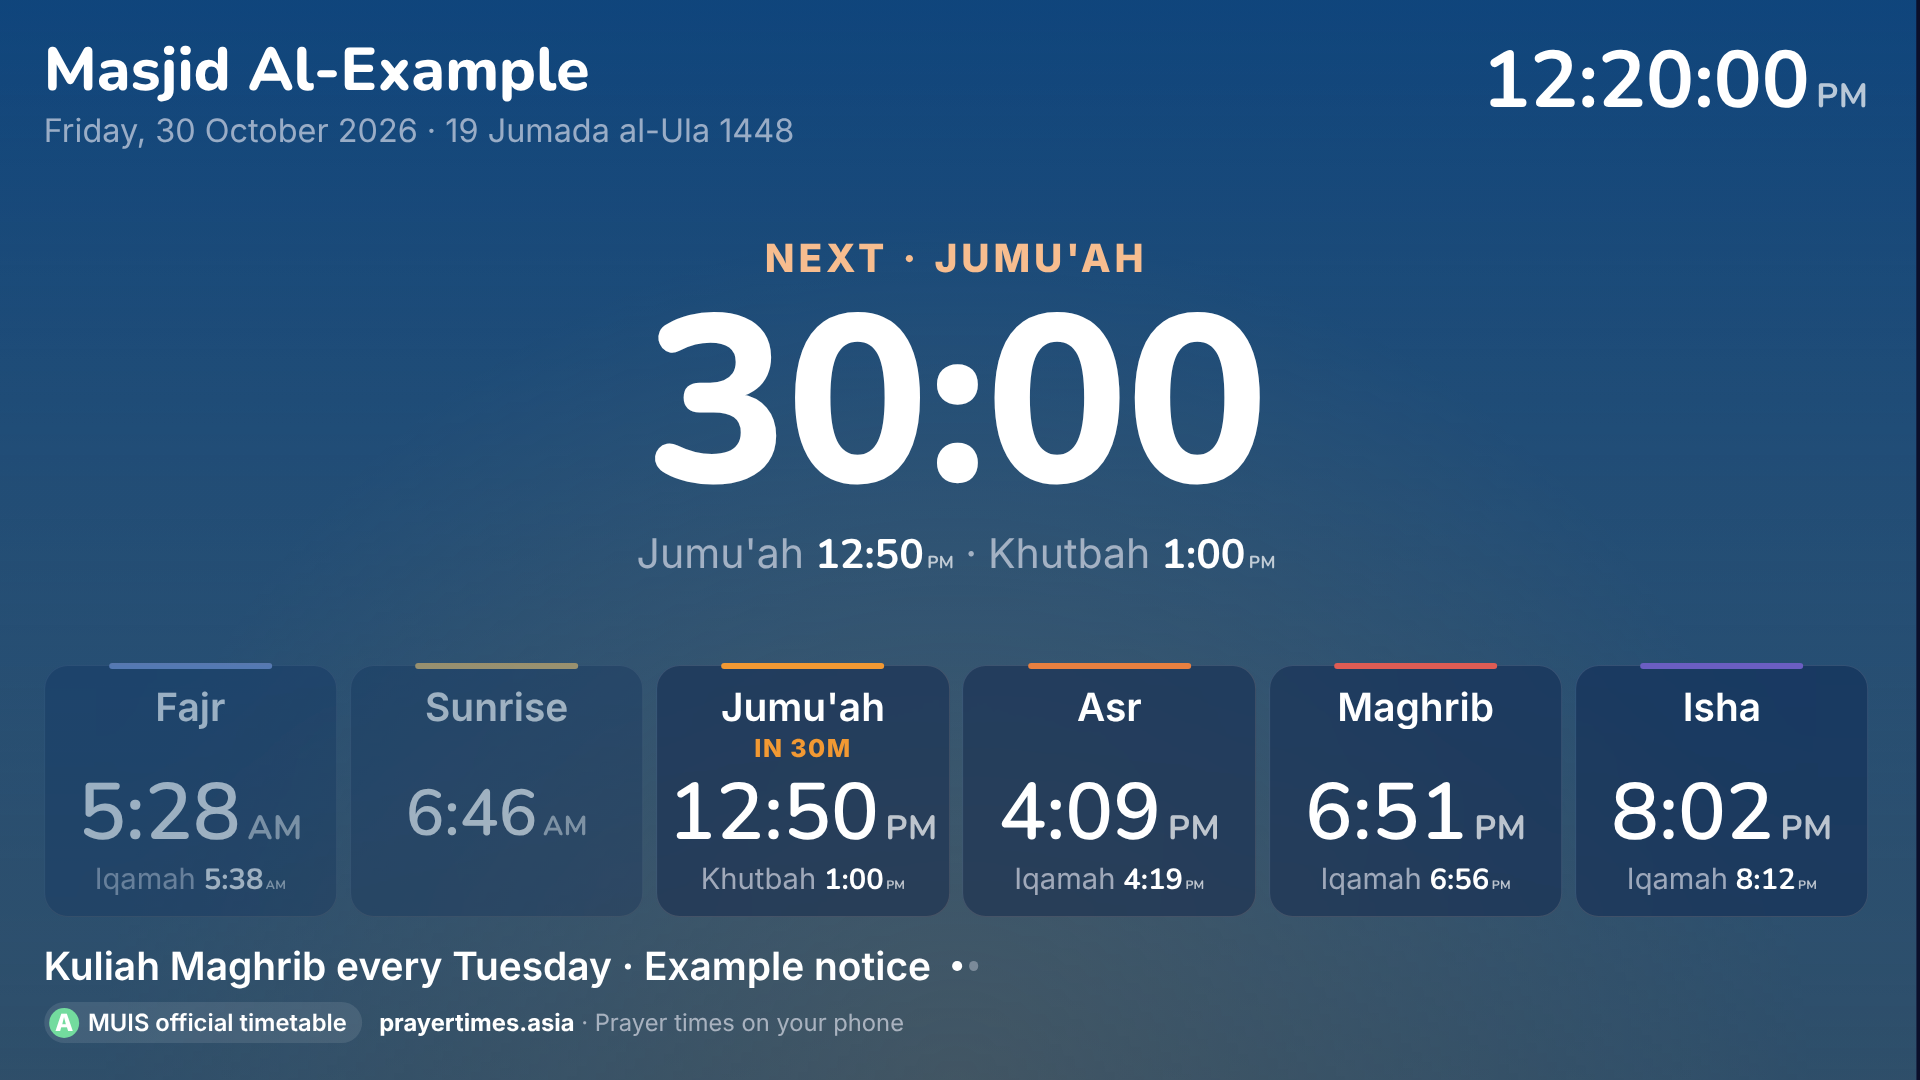
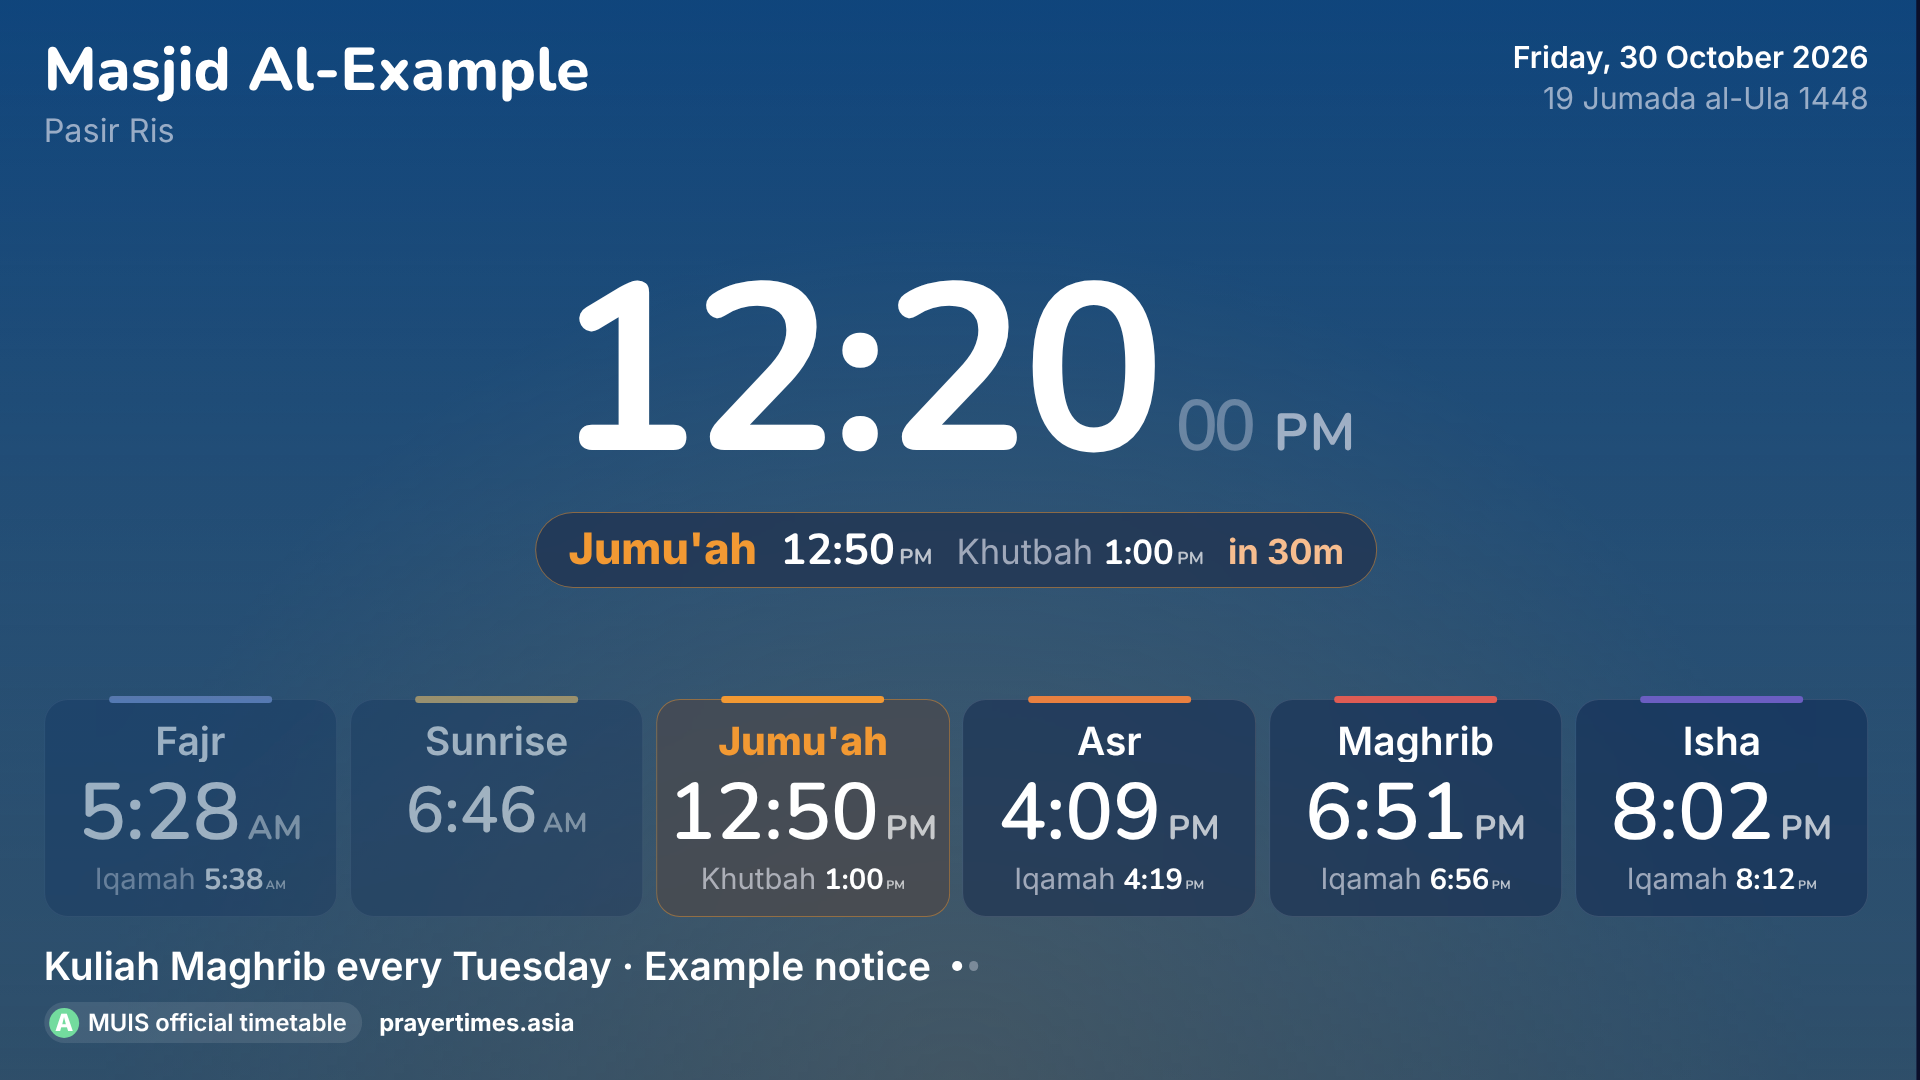
Masjid screen: one moving number, cleaner looks, readable dropdowns
Waiting: the clock is the hero (seconds small) with the next prayer, its
iqamah and "in 40m" under it, changing once a minute. After the azan the
iqamah countdown takes over and the clock drops to hh:mm. The header shows
the date instead of a second clock, the Now/in tags on the cards are gone,
and the highlighted card is the next prayer. Setup dropdowns are drawn
dark so every option is readable.

Claude-Session: https://claude.ai/code/session_01N3UT55kGUzTCzRML5iKXZQ

diff --git a/web/src/screen/Display.tsx b/web/src/screen/Display.tsx
@@ -21,14 +21,13 @@ export function Display({ config: c, now, arabicTurn = false }: { config: Screen
   const sd = phase.day
   const arabic = c.arabic && arabicTurn
   const label = (p: Prayer) => name(p, c.names, sd.friday, arabic)
-  const clock = clockParts(now, tz, c.h24, true)
   const tint = phase.kind === 'waiting' ? phase.next : phase.prayer
   const hijriStyle = c.names === 'malay' || c.names === 'indonesian' ? c.names : 'arabic'
   // The app's Living Sky: the sky outside the masjid, right now.
   const today = screenDay(now, c, rowFor)!
   const isToday = sd === today || sd.day.day === today.day.day
-  const next = phase.kind === 'waiting' ? phase.next : null
-  const current = phase.kind === 'waiting' ? phase.current : phase.prayer
+  // One prayer is highlighted: the one people are waiting for (or the one being called now).
+  const focus: Prayer = phase.kind === 'waiting' ? phase.next : phase.prayer
 
   return (
     <div class={`scr scr-${phase.kind} scr-look-${c.look}`} style={{ '--tint': `var(--t-${tint})` }}>
@@ -37,12 +36,12 @@ export function Display({ config: c, now, arabicTurn = false }: { config: Screen
       <header class="scr-head">
         <div class="scr-title">
           <h1>{c.name || c.place.name}</h1>
-          <p>{gregorianDate(now, tz, c.lang)} · {formatHijri(now, tz, hijriStyle, c.hijriAdj)}</p>
+          {c.name && <p>{c.place.name}</p>}
         </div>
-        <div class="scr-clock">{clock.time}{clock.suffix && <small>{clock.suffix}</small>}</div>
+        <p class="scr-date">{gregorianDate(now, tz, c.lang)}<br />{formatHijri(now, tz, hijriStyle, c.hijriAdj)}</p>
       </header>
 
-      {c.look === 'dial' && <Dial sd={sd} now={now} config={c} label={label} current={current} upcoming={next} isToday={isToday} />}
+      {c.look === 'dial' && <Dial sd={sd} now={now} config={c} label={label} focus={focus} isToday={isToday} />}
 
       <Hero phase={phase} now={now} config={c} label={label} />
 
@@ -58,16 +57,14 @@ export function Display({ config: c, now, arabicTurn = false }: { config: Screen
           </li>
         )}
         {PRAYERS.map((p) => {
-          const on = phase.kind === 'waiting' ? phase.current === p : phase.prayer === p
+          const on = p === focus
           const iq = p === 'sunrise' ? undefined : sd.iqamah[p]
           const sub = p === 'maghrib' && sd.ramadan ? w.iftar : null
           const passed = isToday && !on && sd.day.times[p] <= now
-          const tag = on ? w.nowTag : p === next && phase.kind === 'waiting' ? w.inTag(shortLeft(phase.at - now)) : null
           return (
             <li key={p} class={`scr-cell p-${p}${on ? ' on' : ''}${passed ? ' passed' : ''}${p === 'sunrise' ? ' scr-syuruk' : ''}`} style={{ '--tint': `var(--t-${p})` }}>
               <i class="scr-bar" />
               <span class="scr-name">{label(p)}{sub && <em> · {sub}</em>}</span>
-              <span class="scr-tag">{tag ?? '\u00a0'}</span>
               <Time ms={sd.day.times[p]} tz={tz} h24={c.h24} />
               <span class="scr-iq">{iq != null ? <>{p === 'dhuhr' && sd.friday && c.jumuah ? w.khutbah : w.iqamah} <Time ms={iq} tz={tz} h24={c.h24} small /></> : ' '}</span>
             </li>
@@ -79,7 +76,7 @@ export function Display({ config: c, now, arabicTurn = false }: { config: Screen
         <Notice notices={c.notices} now={now} />
         <p class="scr-brand">
           <span class="scr-pill"><b class={`scr-grade g-${sd.day.grade}`}>{sd.day.grade}</b>{sd.source}</span>
-          <span><b>prayertimes.asia</b> · {w.getApp}</span>
+          <span><b>prayertimes.asia</b></span>
         </p>
       </footer>
 
@@ -98,9 +95,9 @@ export function Display({ config: c, now, arabicTurn = false }: { config: Screen
  * The app's Day Dial: the day as a ring in the sky's colours, each azan and iqamah at its hour.
  * Drawn at 600 px and scaled to the screen (--ds), since the dial lays its labels out in pixels.
  */
-function Dial({ sd, now, config: c, label, current, upcoming, isToday }: {
+function Dial({ sd, now, config: c, label, focus, isToday }: {
   sd: NonNullable<ReturnType<typeof screenDay>>; now: number; config: ScreenConfig; label: (p: Prayer) => string
-  current: Prayer | null; upcoming: Prayer | null; isToday: boolean
+  focus: Prayer; isToday: boolean
 }) {
   const w = WORDS[c.lang]
   const tz = c.place!.tz
@@ -109,11 +106,11 @@ function Dial({ sd, now, config: c, label, current, upcoming, isToday }: {
   if (sd.imsak != null) marks.push({ id: 'imsak', date: sd.imsak, minor: true })
   return (
     <section class="scr-dialbox">
-      <HeroDial size={600} now={now} day={sd.day} nextFajr={nextFajr} tz={tz} currentPrayer={isToday ? current : null} marks={marks}
+      <HeroDial size={600} now={now} day={sd.day} nextFajr={nextFajr} tz={tz} currentPrayer={isToday ? focus : null} marks={marks}
         label={(m) => {
           if (m.id === 'imsak') return <div class="scr-dm minor"><span class="scr-dm-name">{w.imsak}</span><Time ms={m.date} tz={tz} h24={c.h24} small /></div>
           const p = m.id as Prayer
-          const on = p === current
+          const on = p === focus
           const iq = p === 'sunrise' ? undefined : sd.iqamah[p]
           const passed = isToday && !on && m.date <= now
           return (
@@ -124,41 +121,43 @@ function Dial({ sd, now, config: c, label, current, upcoming, isToday }: {
             </div>
           )
         }}
-        centre={() => current
-          ? <div class="scr-dial-centre" style={{ '--tint': `var(--t-${current})` }}><span>{w.nowTag}</span><b>{label(current)}</b></div>
-          : upcoming ? <div class="scr-dial-centre" style={{ '--tint': `var(--t-${upcoming})` }}><span>{w.next}</span><b>{label(upcoming)}</b></div> : null} />
+        centre={() => <div class="scr-dial-centre" style={{ '--tint': `var(--t-${focus})` }}><span>{w.next}</span><b>{label(focus)}</b></div>} />
     </section>
   )
 }
 
+/**
+ * The one thing that moves each second. Waiting: the clock (seconds small) and the next prayer,
+ * whose "in 40m" changes only once a minute. After the azan: the iqamah countdown takes over,
+ * and the clock steps down to hours and minutes.
+ */
 function Hero({ phase, now, config: c, label }: { phase: Phase; now: number; config: ScreenConfig; label: (p: Prayer) => string }) {
   const w = WORDS[c.lang]
   const tz = c.place!.tz
+  const clock = clockParts(now, tz, c.h24)
   if (phase.kind === 'azan') {
-    if (phase.iqamah == null) {
-      return <section class="scr-hero"><p class="scr-kicker">{w.azan}</p><p class="scr-big">{label(phase.prayer)}</p><p class="scr-line">{w.silence}</p></section>
-    }
-    const left = phase.iqamah - now
     const jumuah = phase.prayer === 'dhuhr' && phase.day.friday && !!c.jumuah
+    const left = phase.iqamah == null ? 0 : phase.iqamah - now
     return (
-      <section class={`scr-hero${left <= 60_000 ? ' scr-final' : ''}`}>
-        <p class="scr-kicker">{w.azan} {label(phase.prayer)} · {jumuah ? w.khutbah : w.iqamahIn}</p>
-        <p class="scr-big">{countdown(left)}</p>
-        <p class="scr-line">{w.silence}</p>
+      <section class={`scr-hero${phase.iqamah != null && left <= 60_000 ? ' scr-final' : ''}`}>
+        <p class="scr-kicker">{w.azan} {label(phase.prayer)}{phase.iqamah != null && <> · {jumuah ? w.khutbah : w.iqamahIn}</>}</p>
+        <p class="scr-big">{phase.iqamah != null ? countdown(left) : label(phase.prayer)}</p>
+        <p class="scr-line"><span class="scr-now">{clock.time}{clock.suffix && <small>{clock.suffix}</small>}</span> · {w.silence}</p>
       </section>
     )
   }
   if (phase.kind === 'prayer') return <section class="scr-hero" />
   const next = phase.next
   const iq = next === 'sunrise' ? undefined : phase.day.iqamah[next]
-  const title = next === 'sunrise' ? w.ends(label('fajr')) : label(next)
+  const sec = String(Math.floor(now / 1000) % 60).padStart(2, '0')
   return (
     <section class="scr-hero">
-      <p class="scr-kicker">{w.next} · {title}</p>
-      <p class="scr-big">{countdown(phase.at - now)}</p>
-      <p class="scr-line">
-        {label(next)} <Time ms={phase.at} tz={tz} h24={c.h24} />
-        {iq != null && <> · {next === 'dhuhr' && phase.day.friday && c.jumuah ? w.khutbah : w.iqamah} <Time ms={iq} tz={tz} h24={c.h24} /></>}
+      <p class="scr-big scr-clockbig">{clock.time}<span class="scr-sec">{sec}</span>{clock.suffix && <small>{clock.suffix}</small>}</p>
+      <p class="scr-next" style={{ '--tint': `var(--t-${next})` }}>
+        <span class="scr-next-name">{next === 'sunrise' ? w.ends(label('fajr')) : label(next)}</span>
+        <Time ms={phase.at} tz={tz} h24={c.h24} />
+        {iq != null && <span class="scr-next-iq">{next === 'dhuhr' && phase.day.friday && c.jumuah ? w.khutbah : w.iqamah} <Time ms={iq} tz={tz} h24={c.h24} /></span>}
+        <span class="scr-in">{w.inTag(shortLeft(phase.at - now))}</span>
       </p>
     </section>
   )

diff --git a/web/src/screen/screen.css b/web/src/screen/screen.css
@@ -335,3 +335,42 @@ textarea { resize: vertical; }
 .scr-look-bands .scr-cell .scr-iq .scr-t { font-size: calc(var(--u) * 3.4); font-family: var(--font-display); font-weight: 700; }
 .scr-sun svg circle[r="7"] { r: 15px; }
 .scr-sun svg circle[r="17"] { r: 36px; }
+
+/* MARK: One moving thing (v3)
+   Waiting: the clock is the hero (seconds small), the next prayer sits under it and changes once a minute.
+   After the azan: the iqamah countdown is the hero and the clock steps down to hh:mm. */
+.scr-date { margin: 0; text-align: right; font-size: calc(var(--u) * 2.8); line-height: 1.35; color: var(--fg2); white-space: nowrap; font-variant-numeric: normal; }
+.scr-date::first-line { color: var(--fg); font-weight: 600; }
+.scr-clockbig { display: inline-flex; align-items: baseline; font-weight: 700; letter-spacing: -0.02em; }
+.scr-sec { font-size: 0.3em; font-weight: 600; color: var(--fg3); margin-left: 0.12em; min-width: 1.25em; }
+.scr-clockbig small { font-size: 0.22em; font-weight: 700; color: var(--fg2); margin-left: 0.3em; letter-spacing: 0.04em; }
+.scr-next {
+  margin: calc(var(--u) * 1.2) 0 0; display: inline-flex; align-items: baseline; flex-wrap: wrap; justify-content: center;
+  gap: calc(var(--u) * 0.6) calc(var(--u) * 2.2); padding: calc(var(--u) * 1.2) calc(var(--u) * 3);
+  border-radius: 999px; background: var(--glass); border: 1px solid color-mix(in srgb, var(--tint) 50%, transparent);
+  font-size: calc(var(--u) * 4); -webkit-backdrop-filter: blur(22px); backdrop-filter: blur(22px);
+}
+.scr-next-name { font-weight: 800; color: var(--tint); font-variant-numeric: normal; }
+.scr-next > .scr-t { font-weight: 700; }
+.scr-next .scr-t small { font-size: 0.5em; }
+.scr-next-iq { color: var(--fg2); font-size: 0.8em; font-variant-numeric: normal; }
+.scr-next-iq .scr-t { color: var(--fg); font-weight: 700; }
+.scr-in { font-weight: 700; color: var(--accent); font-size: 0.8em; font-variant-numeric: normal; }
+.scr-now { color: var(--fg); font-family: var(--font-display); font-weight: 700; }
+.scr-now small { font-size: 0.6em; margin-left: 0.15em; opacity: 0.7; }
+.scr-azan .scr-line { color: var(--gold); }
+/* The highlighted card is the next prayer: a tinted outline and a stronger time. */
+.scr-cell.on .scr-name { color: var(--tint); font-weight: 800; }
+.scr-look-bands .scr-cell.on .scr-name { color: #fff; }
+/* Bands: the hero sits on the left beside the bands. */
+.landscape .scr-look-bands .scr-head { flex-direction: column; }
+.landscape .scr-look-bands .scr-date { text-align: left; }
+.landscape .scr-look-bands .scr-big, .landscape .scr-look-board .scr-big, .landscape .scr-look-dial .scr-big { font-size: calc(var(--u) * 16); }
+.landscape .scr-look-bands .scr-next, .landscape .scr-look-board .scr-next, .landscape .scr-look-dial .scr-next { font-size: calc(var(--u) * 3.2); padding-inline: calc(var(--u) * 2); }
+.scr-look-sunpath .scr-big { font-size: calc(var(--u) * 15); }
+.portrait .scr-head { flex-direction: column; }
+.portrait .scr-date { text-align: left; }
+/* Setup: dropdown lists in the page's colours (Windows draws them white otherwise). */
+select { color-scheme: dark; }
+select option { background-color: #161a36; color: #fff; }
+.scr-look-board .scr-cell .scr-iq .scr-t { font-size: calc(var(--u) * 3.4); }
